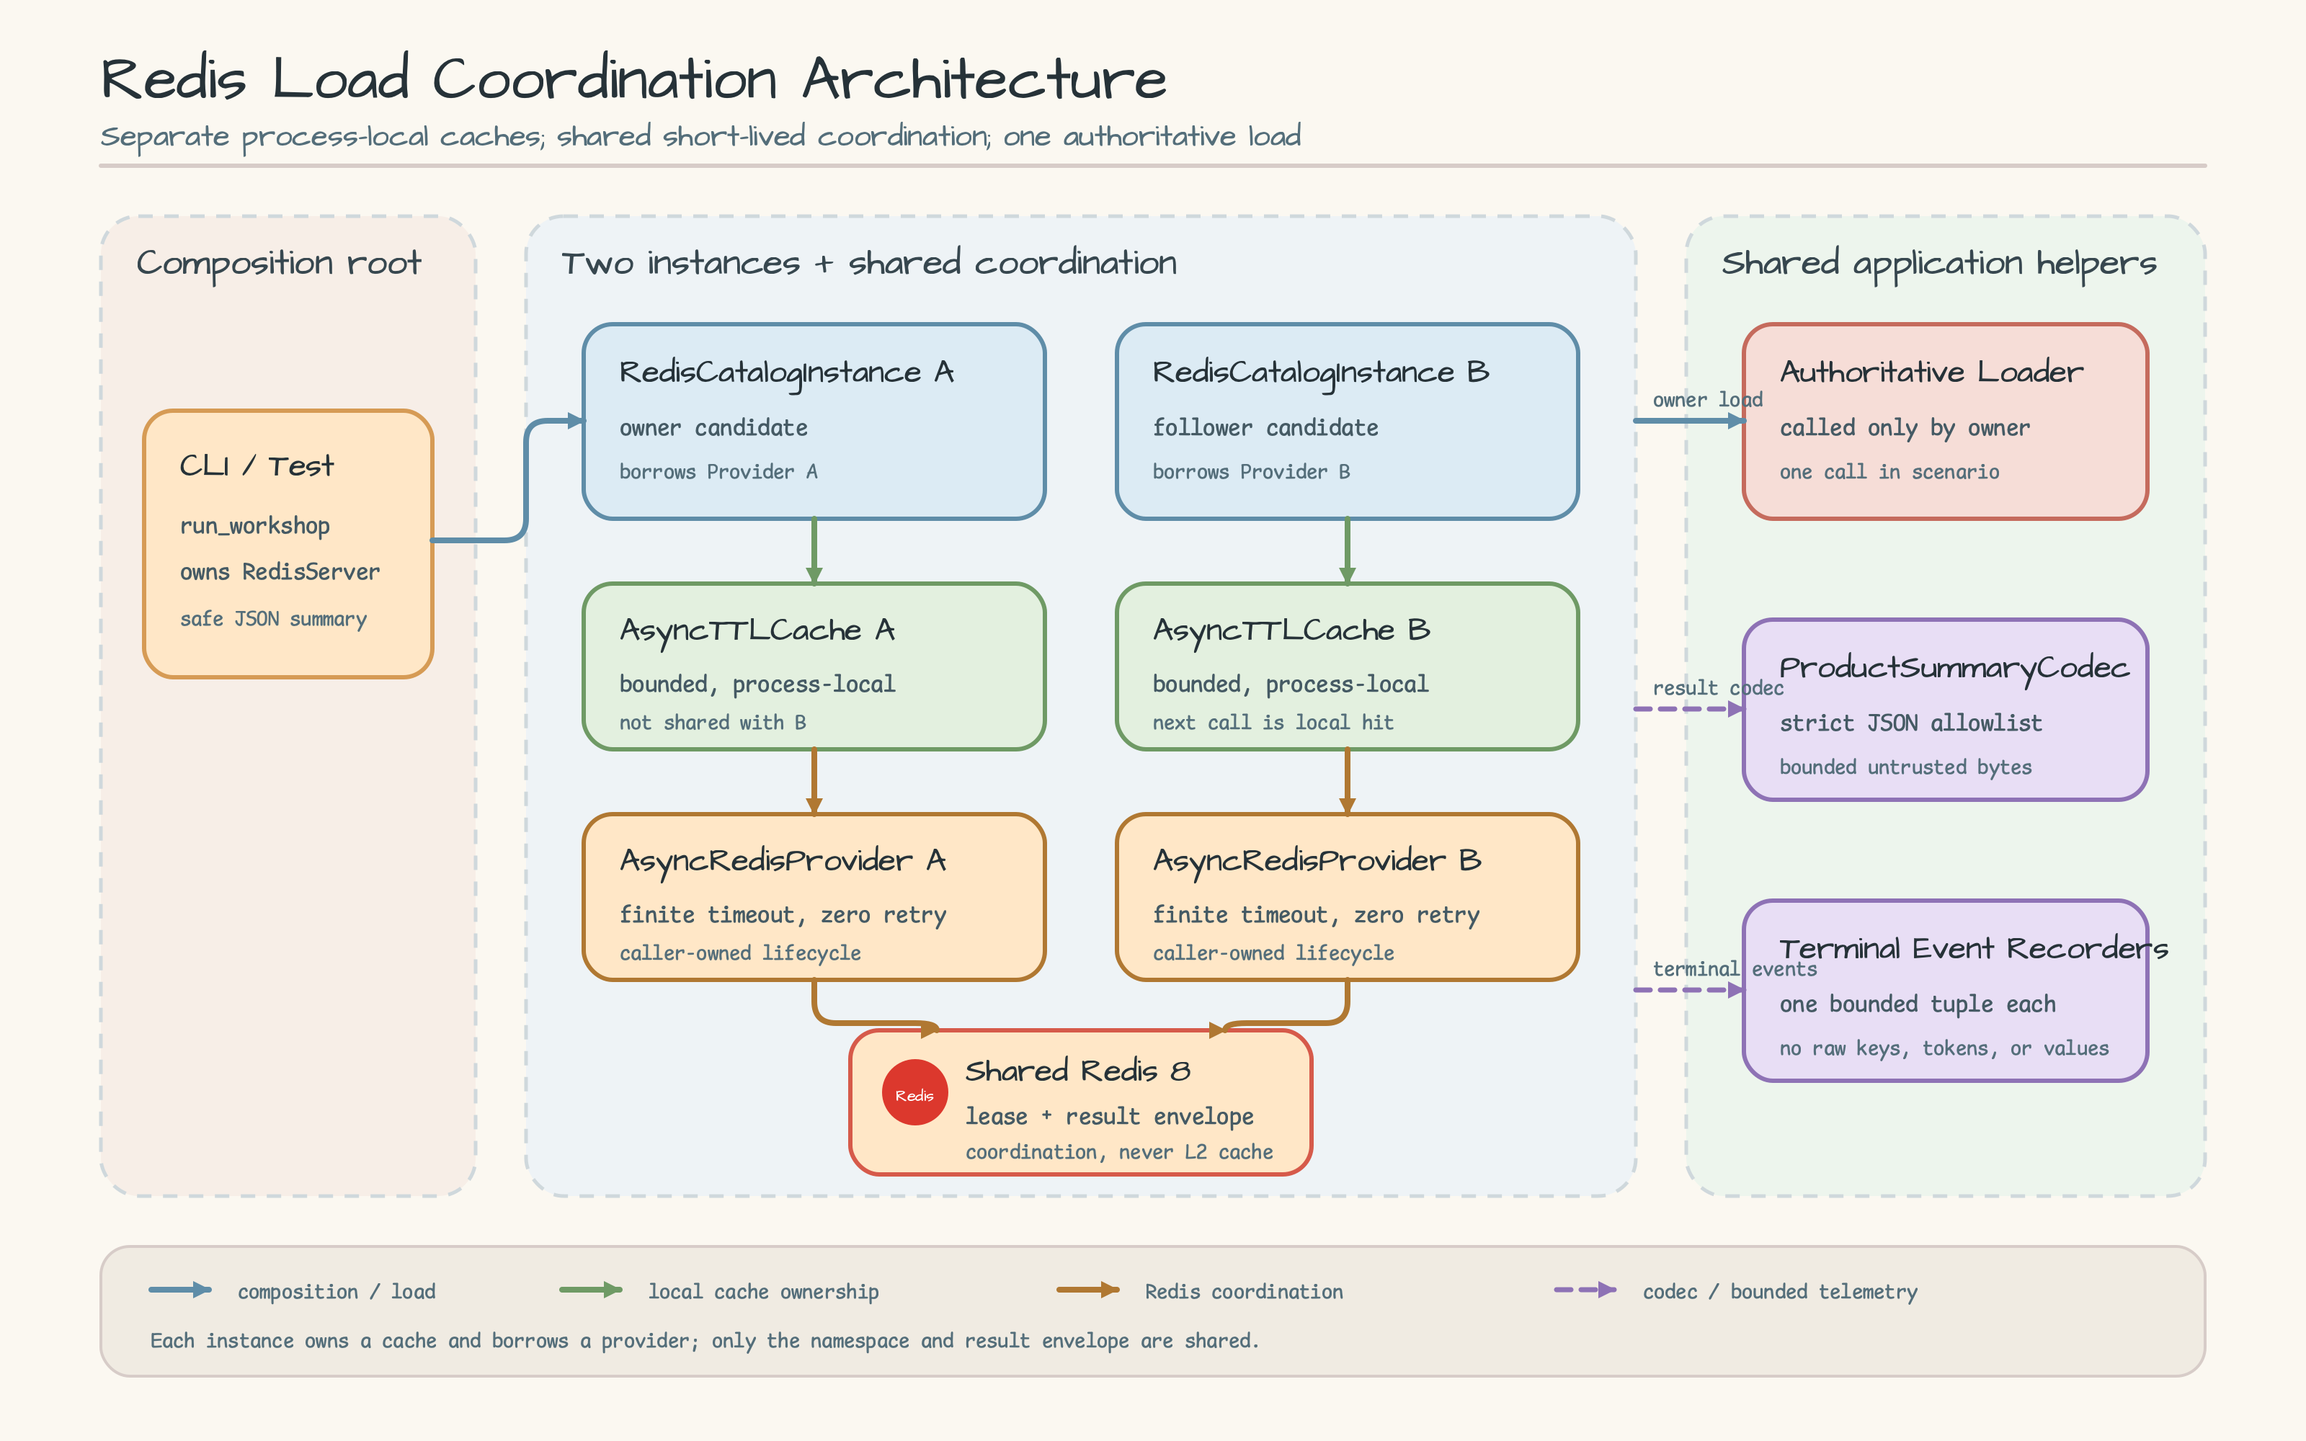
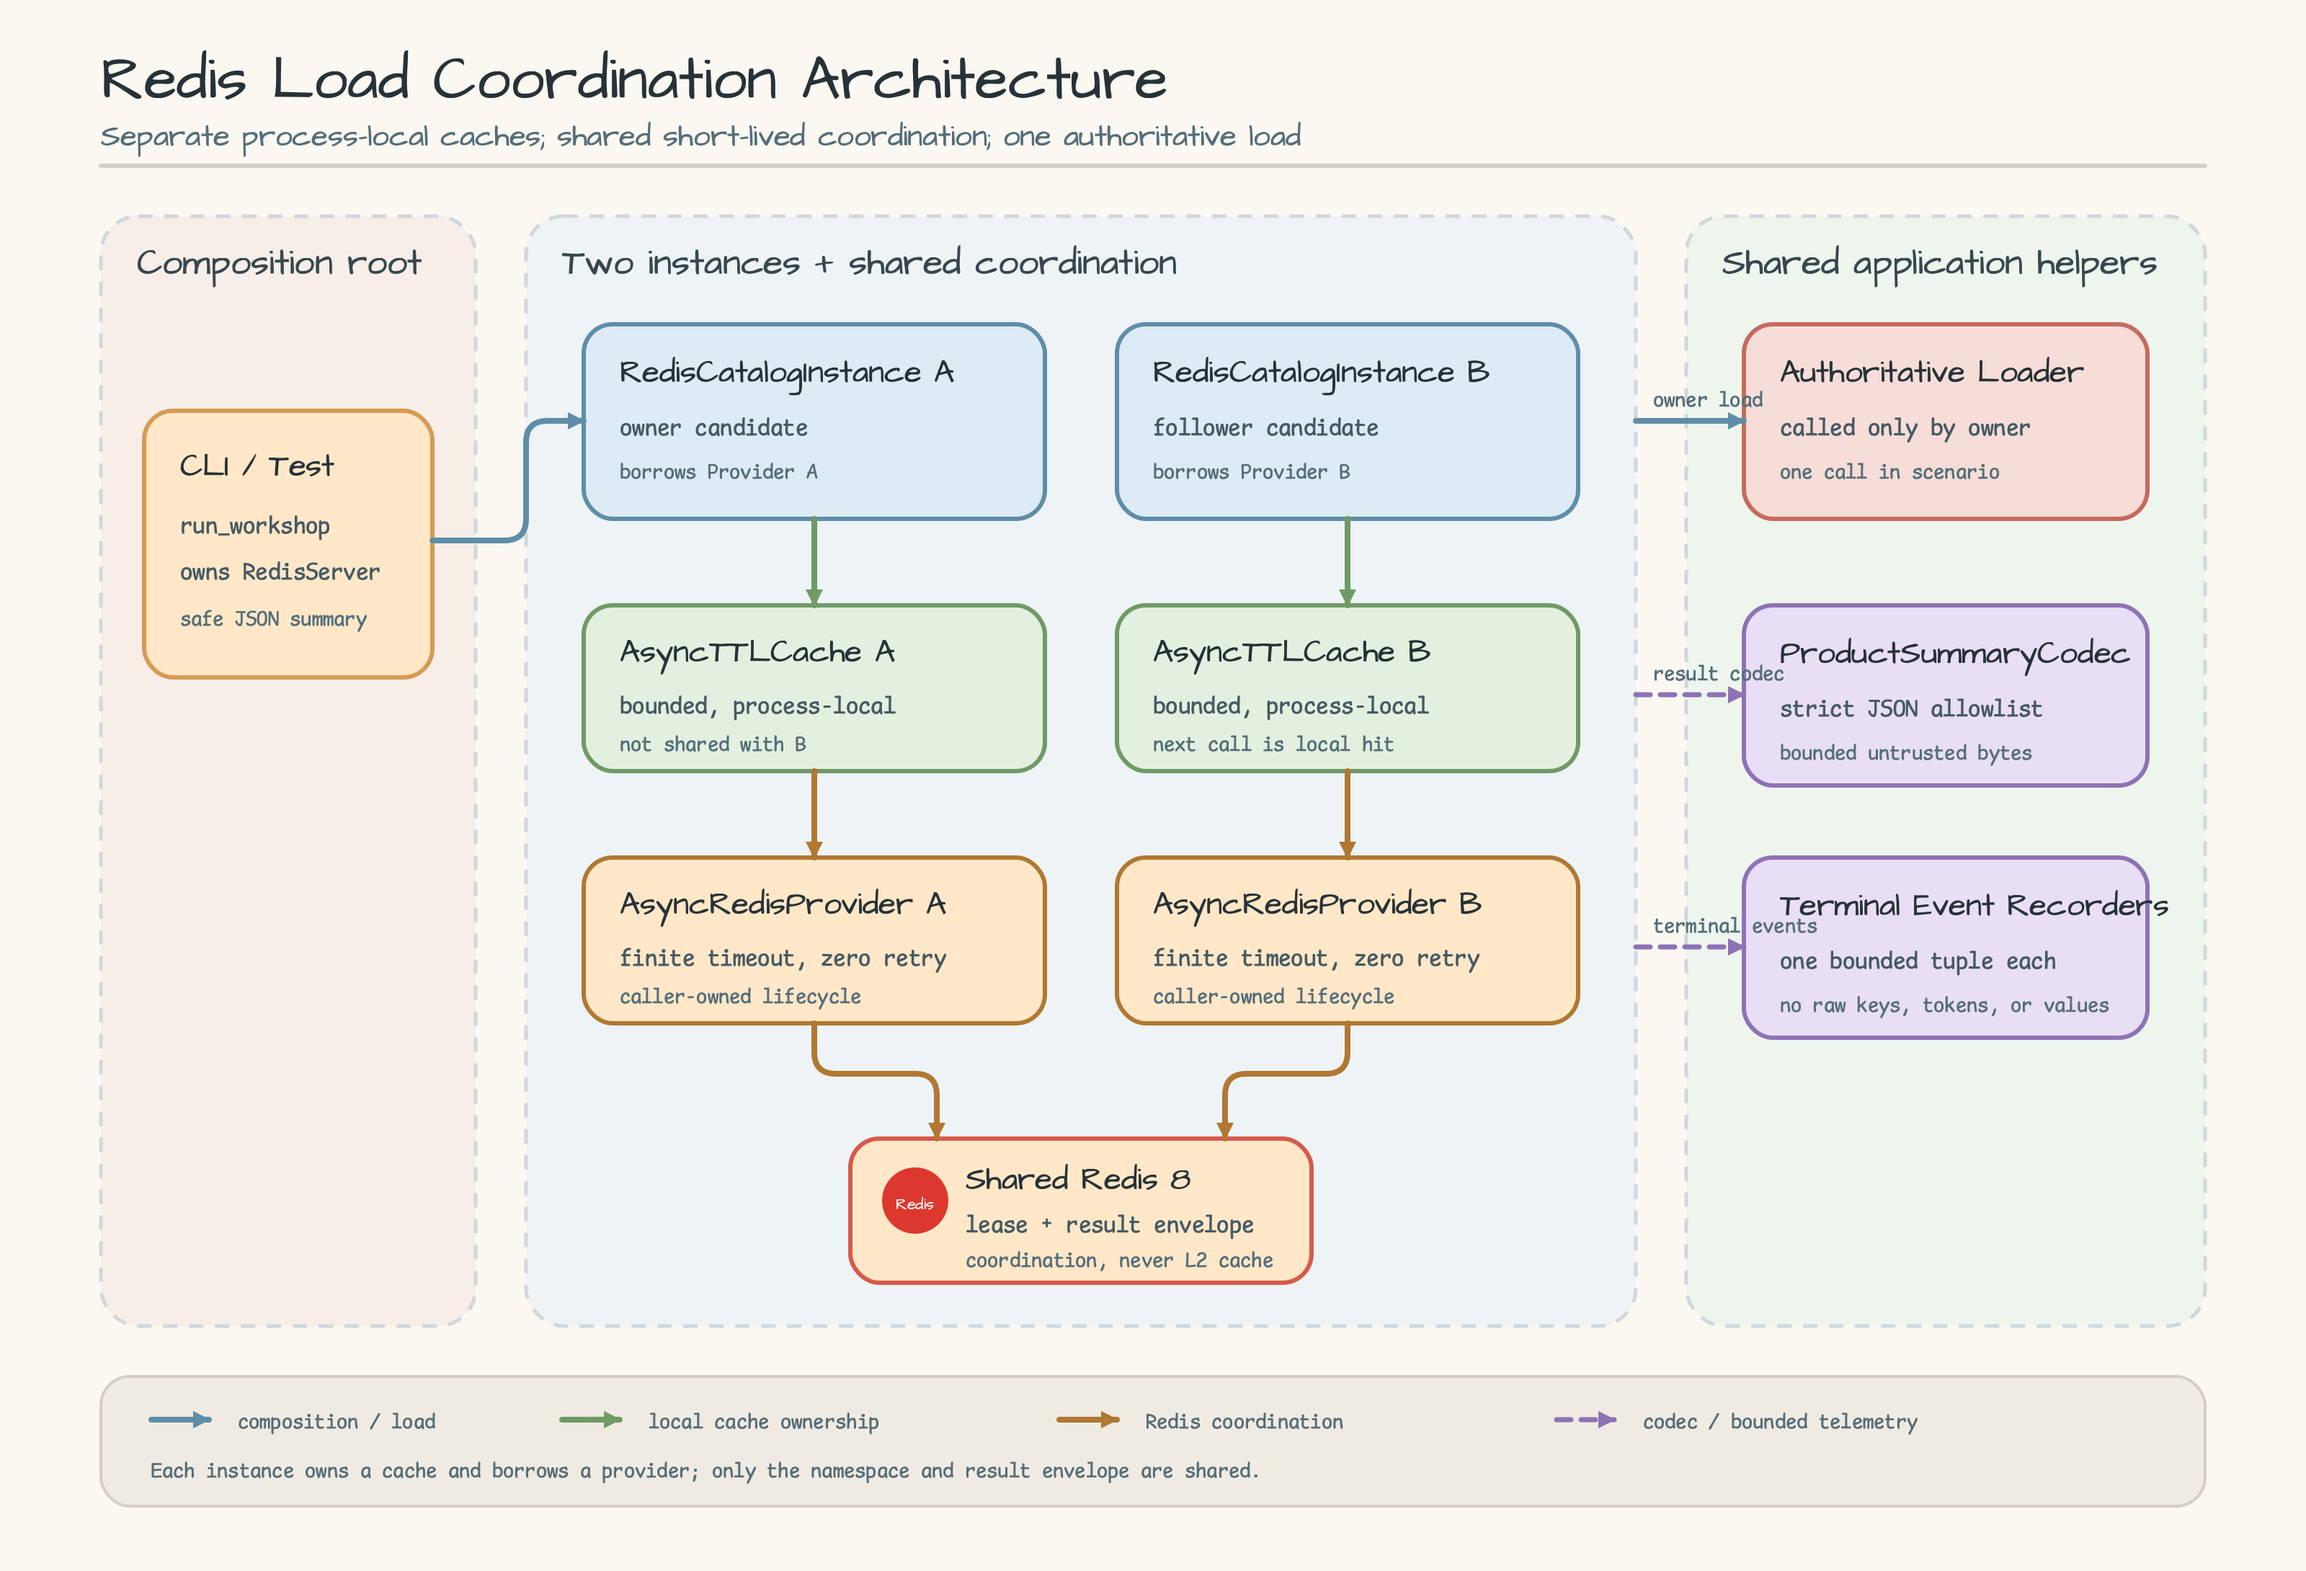
Reserve connector space for architecture arrowheads
Constraint: Primary architecture arrows use fixed 14x14 markers and need visible terminal clearance between cards.\nRejected: Shrink arrowheads to fit existing gaps | This hides the layout defect and violates the shared diagram size contract.\nConfidence: high\nScope-risk: narrow\nDirective: Size card gaps and terminal segments from rendered marker dimensions before routing connectors.\nTested: RED/GREEN geometry regression; XML and CairoSVG 2x render; connector, geometry, endpoint, and mixed-corner audits; full-size PNG inspection; 297 pytest passed; Ruff; git diff --check\nNot-tested: Browser-specific SVG rendering

diff --git a/examples/redis_load_coordination/tests/test_documentation.py b/examples/redis_load_coordination/tests/test_documentation.py
@@ -1,3 +1,6 @@
+import re
+import xml.etree.ElementTree as ET
+from itertools import pairwise
 from pathlib import Path
 
 EXAMPLE = Path("examples/redis_load_coordination")
@@ -85,3 +88,53 @@ def test_diagram_assets_exist_and_are_embedded() -> None:
         link = f"docs/images/{name}"
         assert link in english
         assert link in korean
+
+
+def test_architecture_card_gaps_leave_room_for_arrowheads() -> None:
+    root = ET.parse(EXAMPLE / "docs" / "images" / "architecture.svg").getroot()
+    namespace = {"svg": "http://www.w3.org/2000/svg"}
+
+    markers = root.findall(".//svg:marker", namespace)
+    assert markers
+    assert {
+        (float(marker.attrib["markerWidth"]), float(marker.attrib["markerHeight"]))
+        for marker in markers
+    } == {(14.0, 14.0)}
+
+    cards = [
+        rect
+        for rect in root.findall(".//svg:rect", namespace)
+        if rect.attrib.get("class") == "card"
+    ]
+    stacks = {
+        x: sorted(
+            (
+                (float(card.attrib["y"]), float(card.attrib["height"]))
+                for card in cards
+                if float(card.attrib["x"]) == x
+            ),
+            key=lambda dimensions: dimensions[0],
+        )
+        for x in (405.0, 775.0)
+    }
+    for stack in stacks.values():
+        assert len(stack) == 3
+        gaps = [next_y - (y + height) for (y, height), (next_y, _) in pairwise(stack)]
+        assert min(gaps) >= 55.0
+
+    redis = next(card for card in cards if card.attrib.get("stroke") == "#d65a4a")
+    redis_top = float(redis.attrib["y"])
+    for stack in stacks.values():
+        provider_y, provider_height = stack[-1]
+        assert redis_top - (provider_y + provider_height) >= 70.0
+
+    redis_entry_paths = [
+        path.attrib["d"]
+        for path in root.findall(".//svg:path", namespace)
+        if path.attrib.get("class") == "coord" and "Q" in path.attrib.get("d", "")
+    ]
+    assert len(redis_entry_paths) == 2
+    for path in redis_entry_paths:
+        terminal = re.search(r"Q\d+ \d+ \d+ (?P<exit_y>\d+) V(?P<target_y>\d+)$", path)
+        assert terminal is not None
+        assert float(terminal["target_y"]) - float(terminal["exit_y"]) >= 28.0
